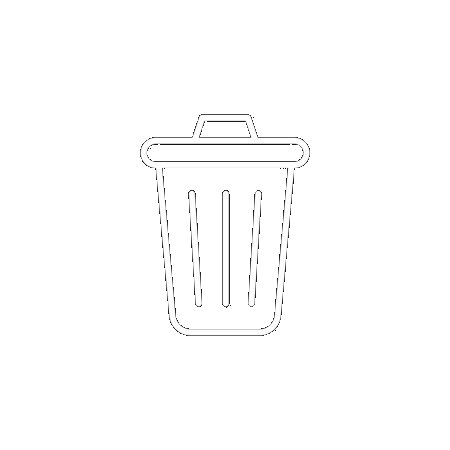
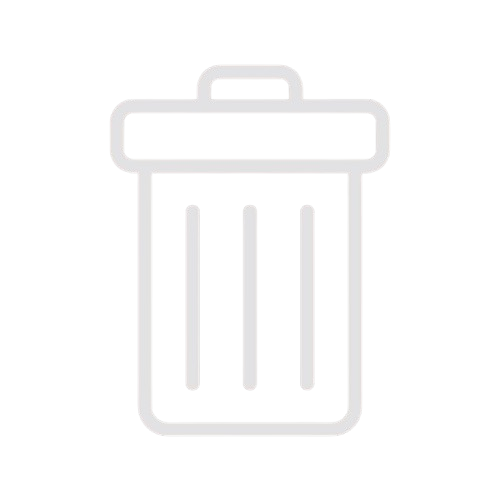
Cadeaubonnen laten werken

Changed region(s): [[0.2178, 0.1244, 0.7778, 0.8711]]

diff --git a/style.css b/style.css
@@ -800,7 +800,7 @@ input[type="number"].quantity-input {
 }
 
 .remove-item img {
-  width: 2rem;
+  width: 3rem;
 }
 
 /* Verwijderknop */
